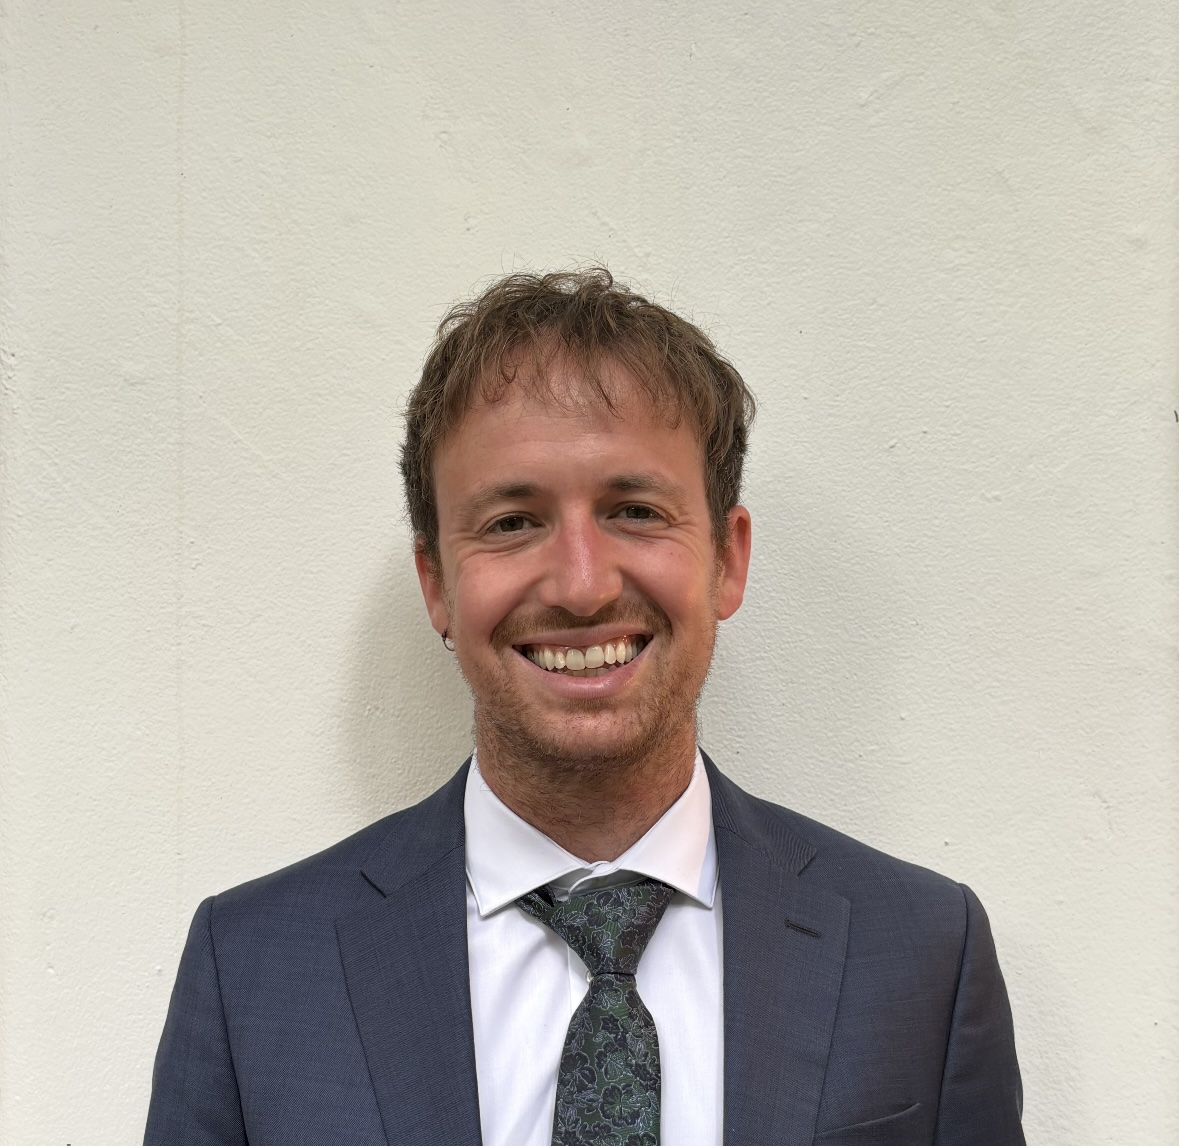
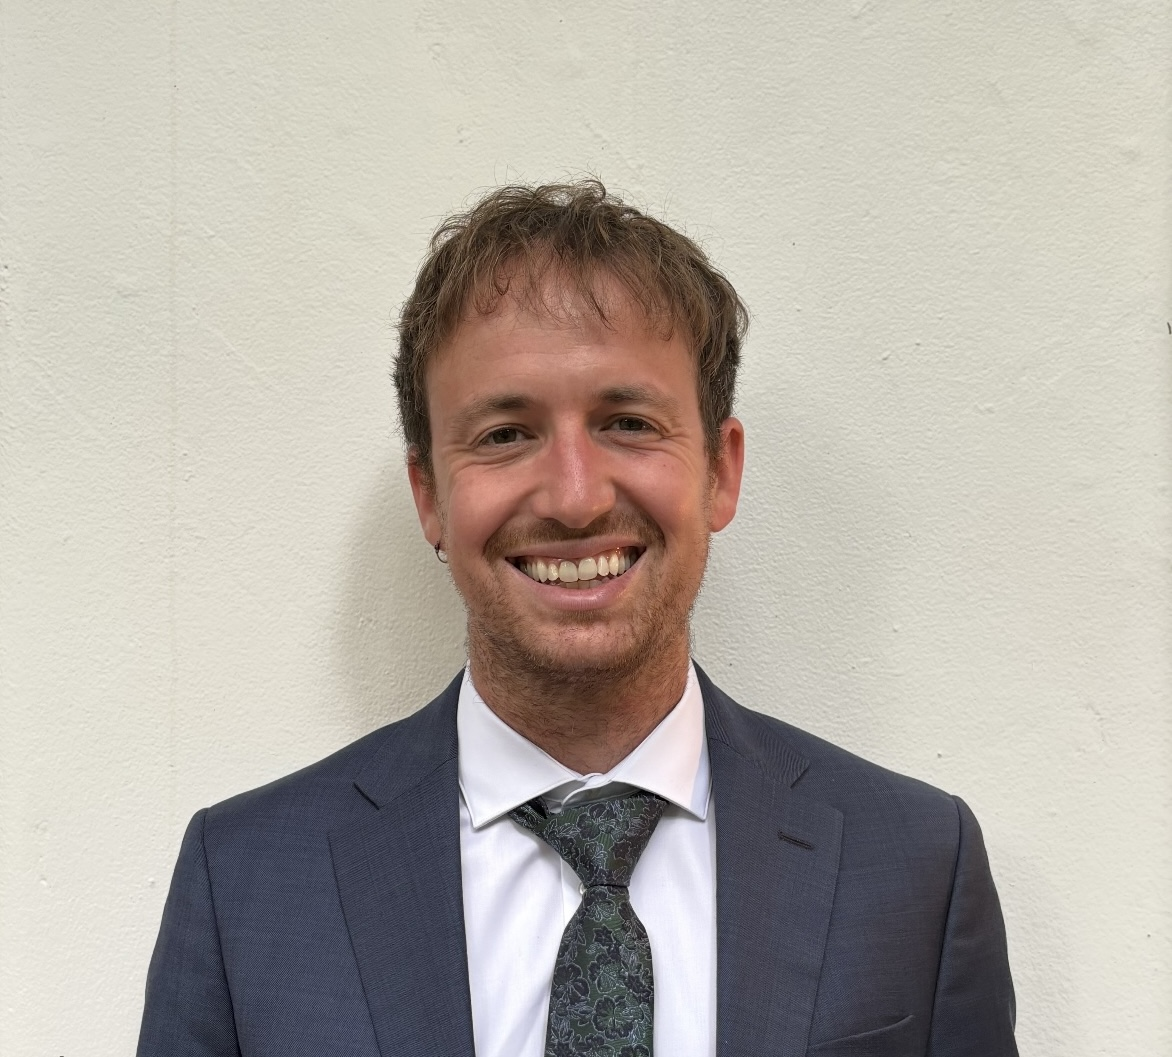
Update CV, bio photo, and about page copy

diff --git a/_pages/about.md b/_pages/about.md
@@ -13,4 +13,4 @@ I am a PhD candidate in the [Department of Communication](https://comm.stanford.
 
 My research examines **authoritarian influence on global media production** and **state-society relations in China**. My work has been published in the *Journal of Communication*, *Social Media + Society*, *Communication and the Public*, and *China Quarterly* (forthcoming), as well as in *Findings of the Association for Computational Linguistics: EMNLP*, a conference proceeding. My research typically uses a combination of computational methods, large-scale datasets, and qualitative interviews to identify government intervention and evaluate its influence on media reporting and political behavior. 
 
-I am a proud graduate of [Amherst College](https://www.amherst.edu/) and a strong advocate for liberal arts education, especially in the era of artificial intelligence. I also earned an M.A. in Journalism from [Stanford University](https://journalism.stanford.edu/) and an M.A. in China Studies from [Peking University](https://english.pku.edu.cn/), where I was a Yenching Scholar. I also lectured for a year at [China Foreign Affairs University](https://en.cfau.edu.cn/) in Beijing.
+I am a proud graduate of [Amherst College](https://www.amherst.edu/) and a strong advocate for liberal arts education, especially in the era of artificial intelligence. I also earned an M.A. in Journalism from [Stanford University](https://journalism.stanford.edu/) and an M.A. in China Studies from [Peking University](https://english.pku.edu.cn/), where I was a Yenching Scholar. Before that, I lectured for a year at [China Foreign Affairs University](https://en.cfau.edu.cn/) in Beijing.